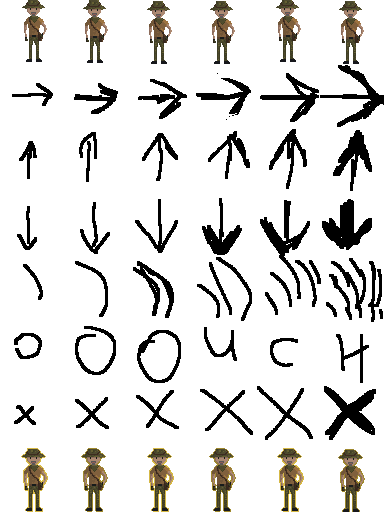
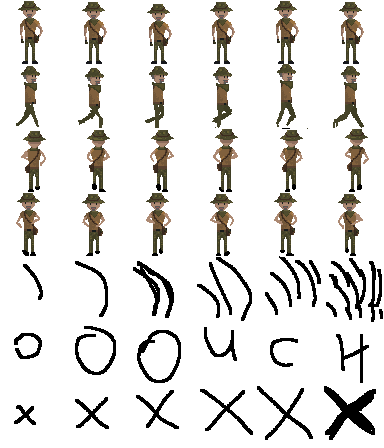
added walking animations for giovanni

diff --git a/LostInTheMap/animator.cpp b/LostInTheMap/animator.cpp
@@ -26,8 +26,6 @@ void animator::update(Space& game_space, int dt)
 			
 			if (ac->cur_column == 0 && animation_done_callbacks[ac] != nullptr)
 			{
-				if (ac->owner->name.compare("cb_unit_rat1") == 0)
-					std::cout << "a";
 				ac->cur_column = max_frames_in_animation - 1;
 				ac->animation_finished = true;
 				void(*a)(Entity*) = animation_done_callbacks[ac];
@@ -36,9 +34,6 @@ void animator::update(Space& game_space, int dt)
 			}
 			ac->sprite_changed = true;
 		}
-
-
-
 	}
 
 }
@@ -96,6 +91,7 @@ void animator::start_animation(IAnimatable* ac, animations type, void(*done_call
 			already_there = true;
 		ac->total_sprite_required_time = 100;
 		ac->cur_row = 2;
+		break;
 	case animations::walking_down:
 		if (ac->cur_row == 3)
 			already_there = true;
@@ -181,11 +177,29 @@ void animator::apply_animation_sprite_changes(Space& space)
 	}
 }
 
-void animator::set_walking_animation(Entity* ent)
+void animator::set_walking_animation(Entity* ent, ITerrain* tc)
 {
 	IAnimatable* ac = (IAnimatable*)ent->get_component(Component::ComponentType::Animated);
 	IMoving* mc = (IMoving*)ent->get_component(Component::ComponentType::Movement);
 
+	/*if (mc->path.size() > 0)
+	{
+		SDL_Point next_dest = *mc->path.begin();
+		SDL_Point pos = map_system::get_entity_ids(ent, tc);
+
+
+		if (next_dest.x > pos.x)
+			animator::start_animation(ac, animations::walking_right);
+		else if (next_dest.x < pos.x)
+			animator::start_animation(ac, animations::walking_left);
+		else
+		{
+			if (next_dest.y > pos.y)
+				animator::start_animation(ac, animations::walking_down);
+			else if (next_dest.y < pos.y)
+				animator::start_animation(ac, animations::walking_up);
+		}
+	}*/
 	if (mc->shift_buffer_x > 0)
 		animator::start_animation(ac, animations::walking_right);
 	else if (mc->shift_buffer_x < 0)

diff --git a/LostInTheMap/movement_system.cpp b/LostInTheMap/movement_system.cpp
@@ -37,7 +37,7 @@ void movement_system::move_characters_tick(Space& game_space, int dt, ITerrain* 
 		if (mc->destination_reached && mc->path.size() == 0)//if destination tile reached (or not moving at all)
 			continue;
 
-		animator::set_walking_animation(character);
+		animator::set_walking_animation(character, tr);
 
 		SDL_Point cur_dest;
 		//if next tile is not last destination
@@ -183,7 +183,7 @@ void movement_system::move_characters_tick_combat(Space& game_space, int dt, ITe
 		if (mc->destination_reached && mc->path.size() == 0)//if destination tile reached (or not moving at all)
 			continue;
 
-		animator::set_walking_animation(character);
+		animator::set_walking_animation(character, tr);
 
 		SDL_Point cur_dest;
 		cur_dest = mc->path.back();

diff --git a/LostInTheMap/animator.h b/LostInTheMap/animator.h
@@ -27,7 +27,7 @@ private:
 public:
 	static void start_animation(IAnimatable*, animations, void(*done_callback)(Entity* source)=nullptr);
 	static void apply_animation_sprite_changes(Space & space);
-	static void set_walking_animation(Entity * ent);
+	static void set_walking_animation(Entity * ent, ITerrain* tc);
 	static void update(Space& game_space, int dt);
 
 	animator();
